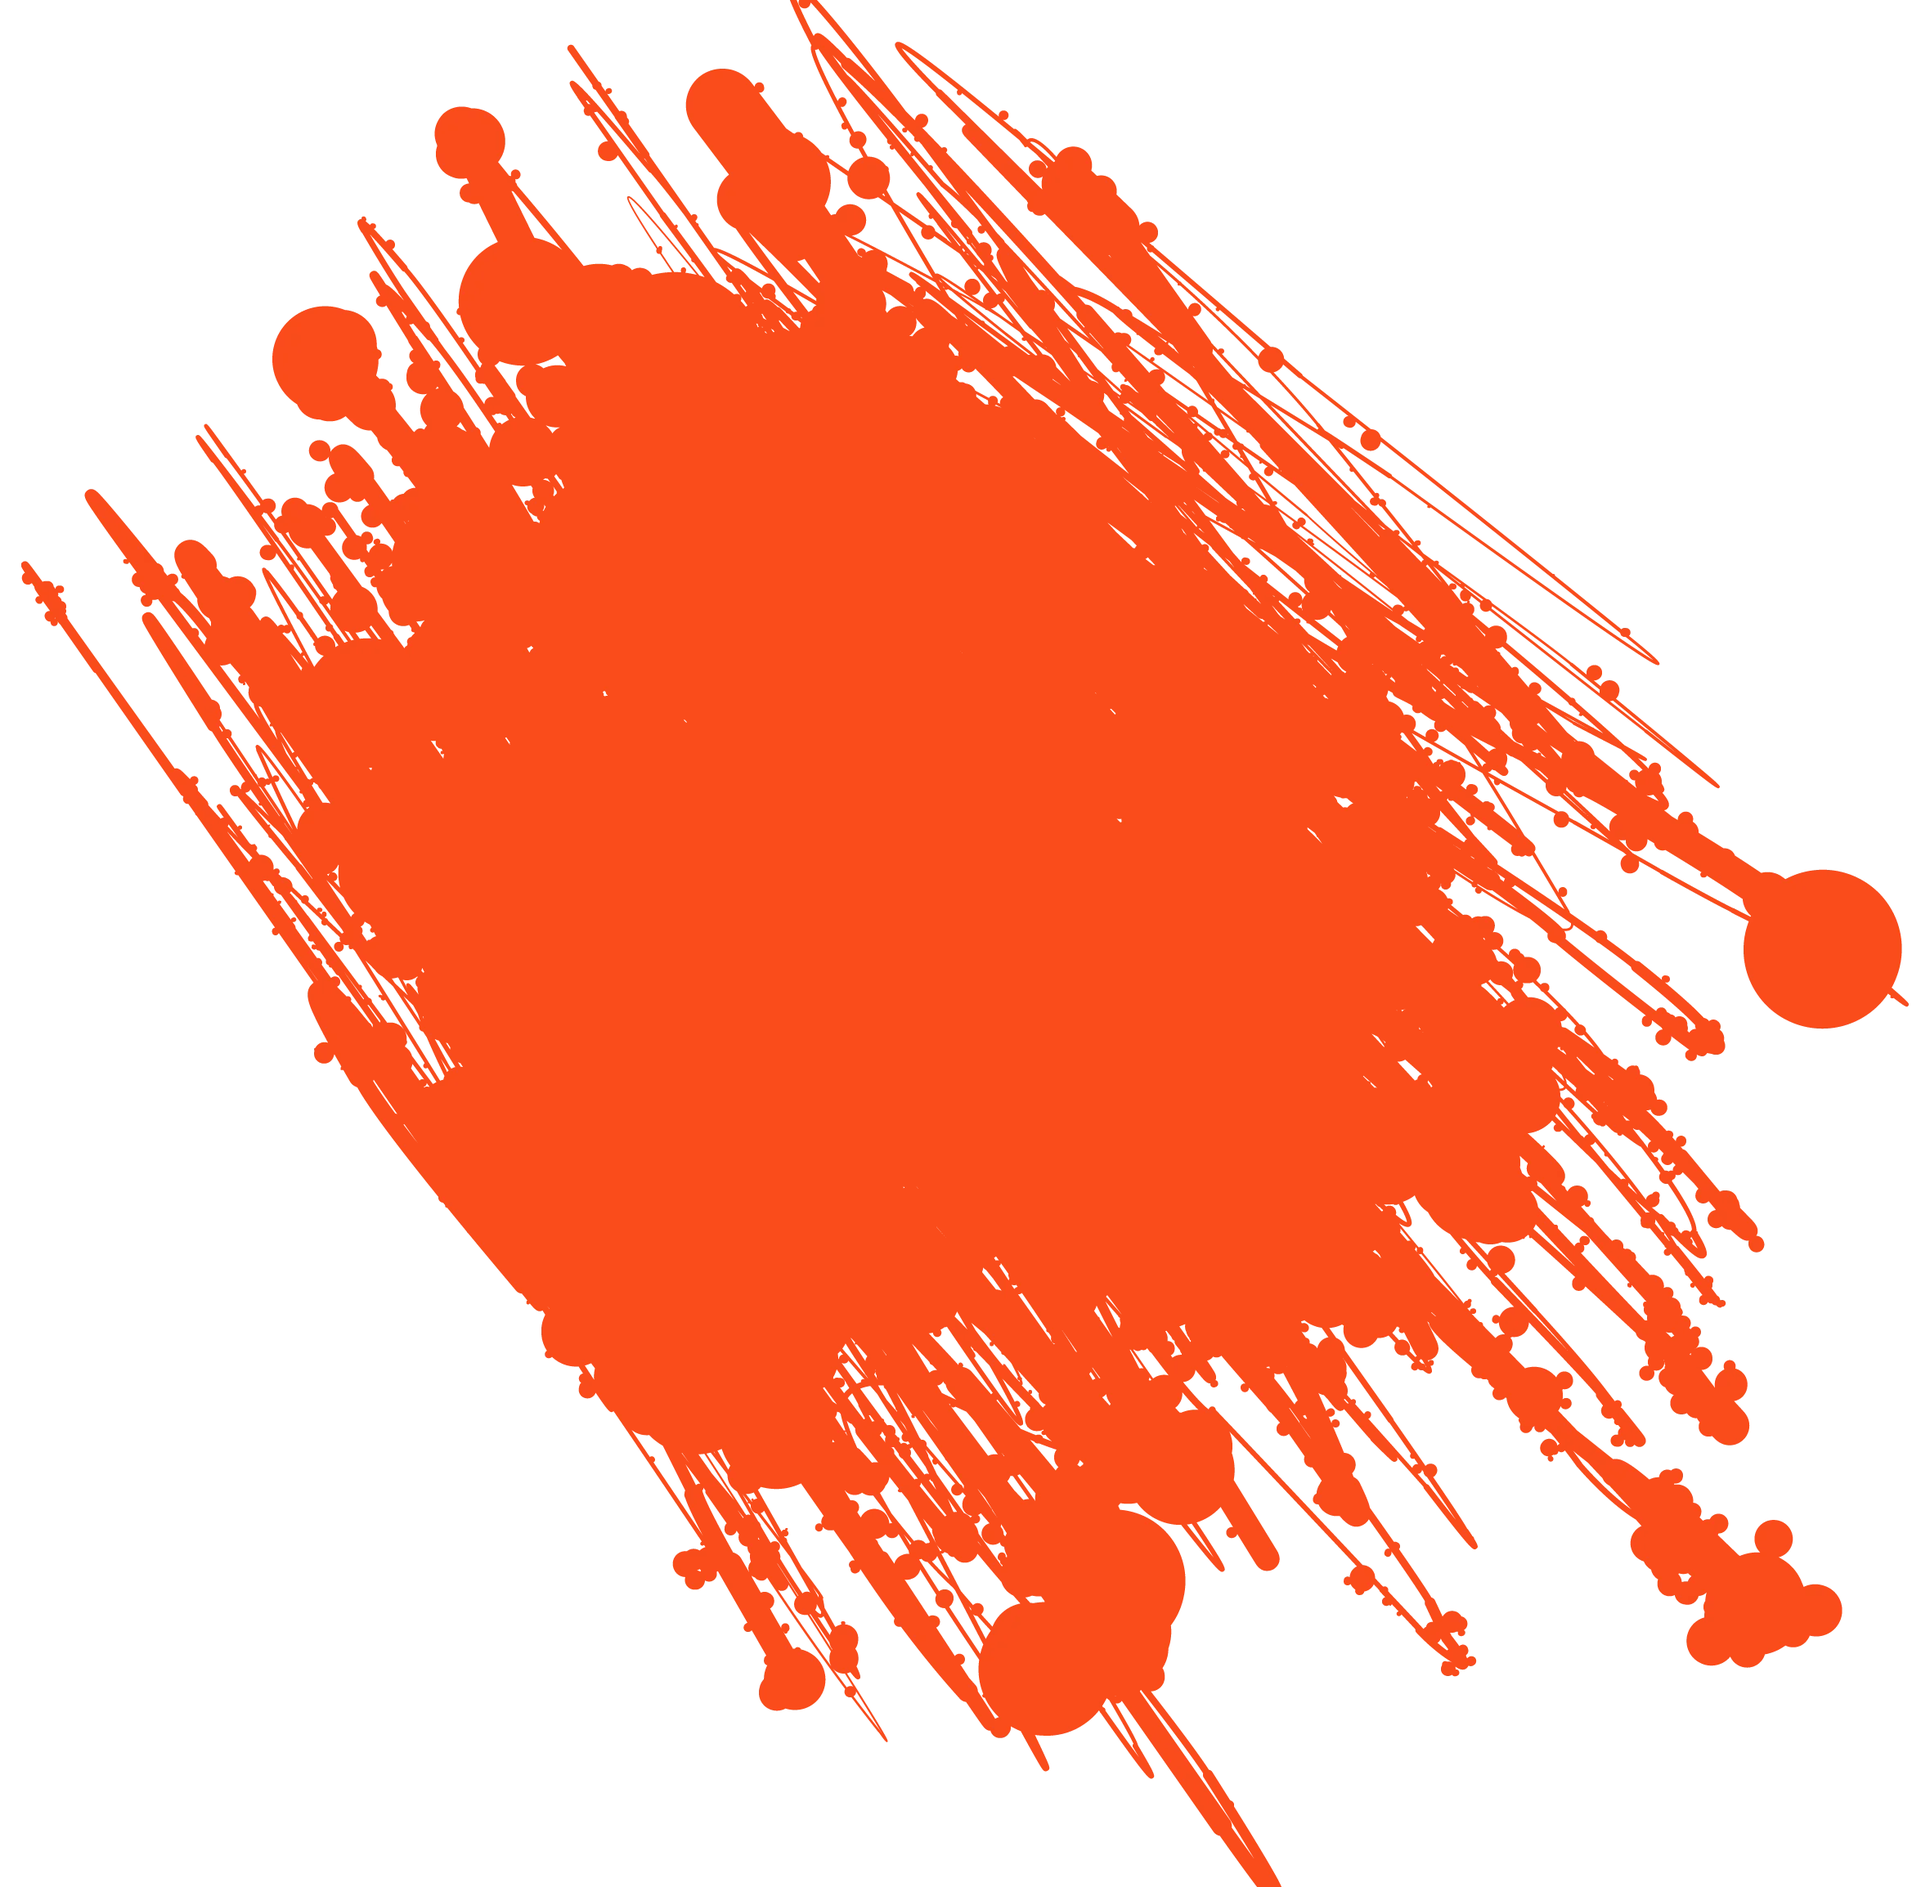
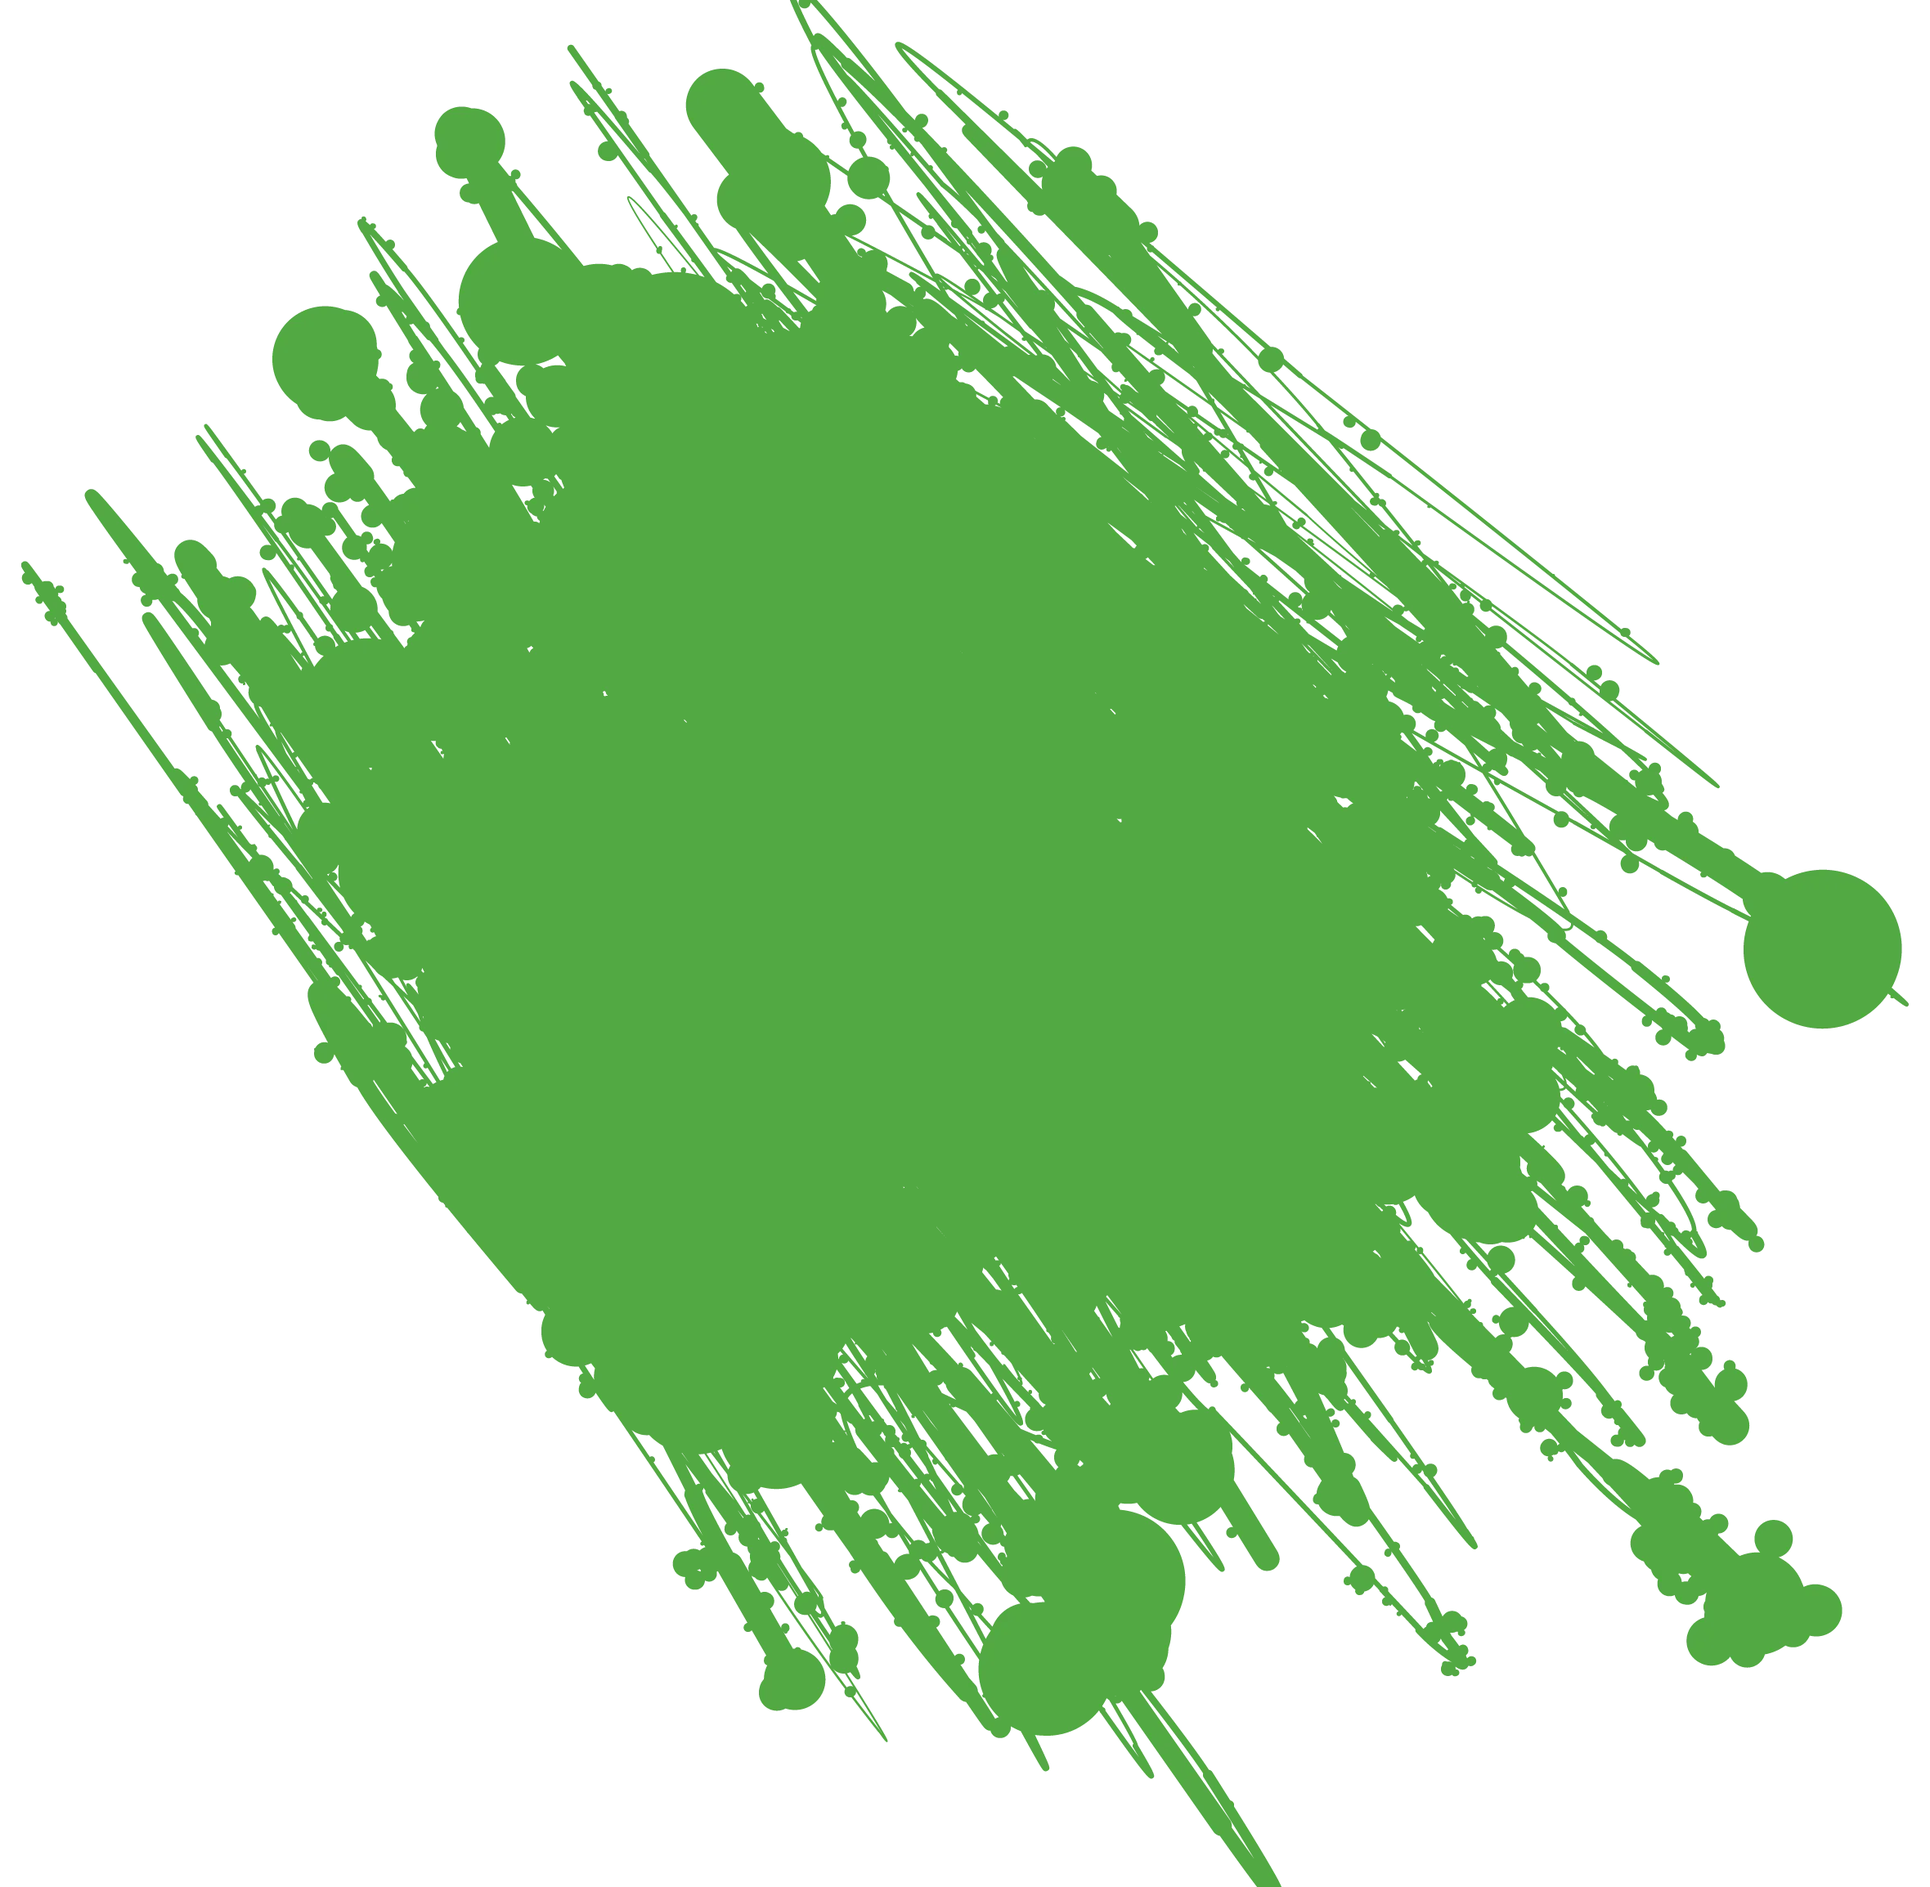
feat:update the image

diff --git a/components/sections/homepage/DonationPreviewSection.tsx b/components/sections/homepage/DonationPreviewSection.tsx
@@ -3,6 +3,7 @@ import { getTranslations } from "next-intl/server";
 import DonationCard from "@/components/ui/DonationCard";
 import SectionHeading from "@/components/ui/SectionHeading";
 import { Link } from "@/navigation";
+import { getDonatePage } from "@/sanity/lib/getDonatePage";
 
 type DonationPreviewSectionProps = {
   locale: string;
@@ -12,6 +13,7 @@ const DonationPreviewSection = async ({
   locale,
 }: DonationPreviewSectionProps) => {
   const tPages = await getTranslations({ locale, namespace: "Pages" });
+  const data = await getDonatePage(locale);
   const donateContent = tPages.raw("donate") as {
     campaigns: {
       kicker?: string;
@@ -34,9 +36,23 @@ const DonationPreviewSection = async ({
     };
   };
 
+  const campaigns = {
+    kicker: data?.campaigns?.kicker ?? donateContent.campaigns.kicker,
+    title: data?.campaigns?.title ?? donateContent.campaigns.title,
+    description:
+      data?.campaigns?.description ?? donateContent.campaigns.description,
+    donateLabel:
+      data?.campaigns?.donateLabel ?? donateContent.campaigns.donateLabel,
+    goalLabel: data?.campaigns?.goalLabel ?? donateContent.campaigns.goalLabel,
+    currency: data?.campaigns?.currency ?? donateContent.campaigns.currency,
+    items: data?.campaigns?.items?.length
+      ? data.campaigns.items
+      : donateContent.campaigns.items,
+  };
+
   const currencyFormatter = new Intl.NumberFormat(locale, {
     style: "currency",
-    currency: donateContent.campaigns.currency || "USD",
+    currency: campaigns.currency || "USD",
     maximumFractionDigits: 0,
   });
   const slugify = (value: string) =>
@@ -44,19 +60,19 @@ const DonationPreviewSection = async ({
       .toLowerCase()
       .replace(/[^a-z0-9]+/g, "-")
       .replace(/(^-|-$)+/g, "");
-  const donatePreviewItems = donateContent.campaigns.items.slice(0, 3);
+  const donatePreviewItems = campaigns.items.slice(0, 3);
 
   return (
     <section className="bg-white py-16">
       <div className="container mx-auto px-4 ">
         <SectionHeading
-          subtitle={donateContent.campaigns.kicker ?? ""}
-          title={donateContent.campaigns.title ?? ""}
+          subtitle={campaigns.kicker ?? ""}
+          title={campaigns.title ?? ""}
           centered
         />
-        {donateContent.campaigns.description ? (
+        {campaigns.description ? (
           <p className="-mt-10 text-center text-sm md:text-base text-slate-600 max-w-3xl mx-auto">
-            {donateContent.campaigns.description}
+            {campaigns.description}
           </p>
         ) : null}
         <div className="mt-12 grid gap-8 lg:grid-cols-3">
@@ -83,8 +99,8 @@ const DonationPreviewSection = async ({
                   goal={item.goalAmount}
                   percentage={percent}
                   accentColor={item.accentColor}
-                  donateLabel={donateContent.campaigns.donateLabel}
-                  goalLabel={donateContent.campaigns.goalLabel}
+                  donateLabel={campaigns.donateLabel}
+                  goalLabel={campaigns.goalLabel}
                   formatAmount={(value) => currencyFormatter.format(value)}
                 />
               </Link>

diff --git a/components/sections/homepage/Hero.tsx b/components/sections/homepage/Hero.tsx
@@ -200,7 +200,7 @@ const Hero = ({ locale }: { locale: string }) => {
                 className="flex items-center justify-center gap-5 mb-8"
               >
                 <div className="h-[2px] w-14 bg-primary rounded-full"></div>
-                <span className="text-primary font-caveat font-black tracking-[0.3em] text-sm md:text-md uppercase font-nunito leading-none">
+                <span className="text-primary  font-black tracking-[0.3em] text-sm md:text-md uppercase  leading-none">
                   {slides[activeIndex].subtitle}
                 </span>
                 <div className="h-[2px] w-14 bg-primary rounded-full"></div>
@@ -227,7 +227,7 @@ const Hero = ({ locale }: { locale: string }) => {
                   href="/donate"
                   className="flex items-center gap-4 bg-white/5 border border-white/20 hover:border-primary pl-8 pr-3 py-2 rounded-full transition-all group relative overflow-hidden active:scale-95 hover:shadow-[0_10px_40px_rgba(249,75,28,0.2)] cursor-pointer"
                 >
-                  <span className="font-extrabold text-md text-white font-nunito relative z-10 transition-colors group-hover:text-white">
+                  <span className="font-extrabold text-md text-white  relative z-10 transition-colors group-hover:text-white">
                     {t.rich("donateNow", {
                       highlight: (chunks) => (
                         <span className="text-primary">{chunks}</span>
@@ -319,7 +319,6 @@ const Hero = ({ locale }: { locale: string }) => {
           />
         </button>
       </div>
-
 
       {/* Modern Pagination Dots */}
       <div className="absolute bottom-16 left-1/2 -translate-x-1/2 flex items-center gap-4 z-30">
